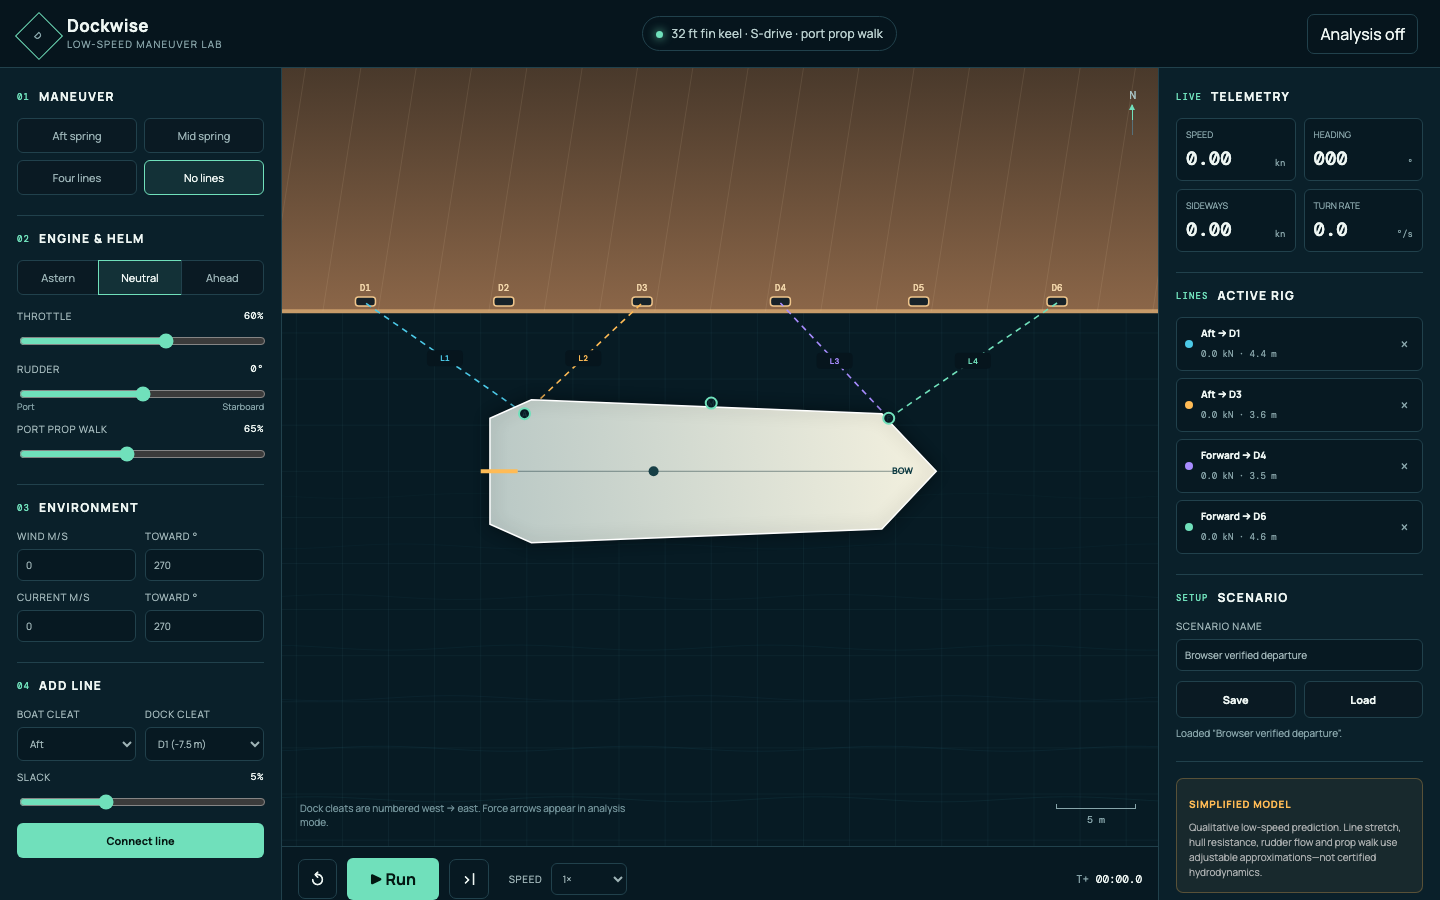
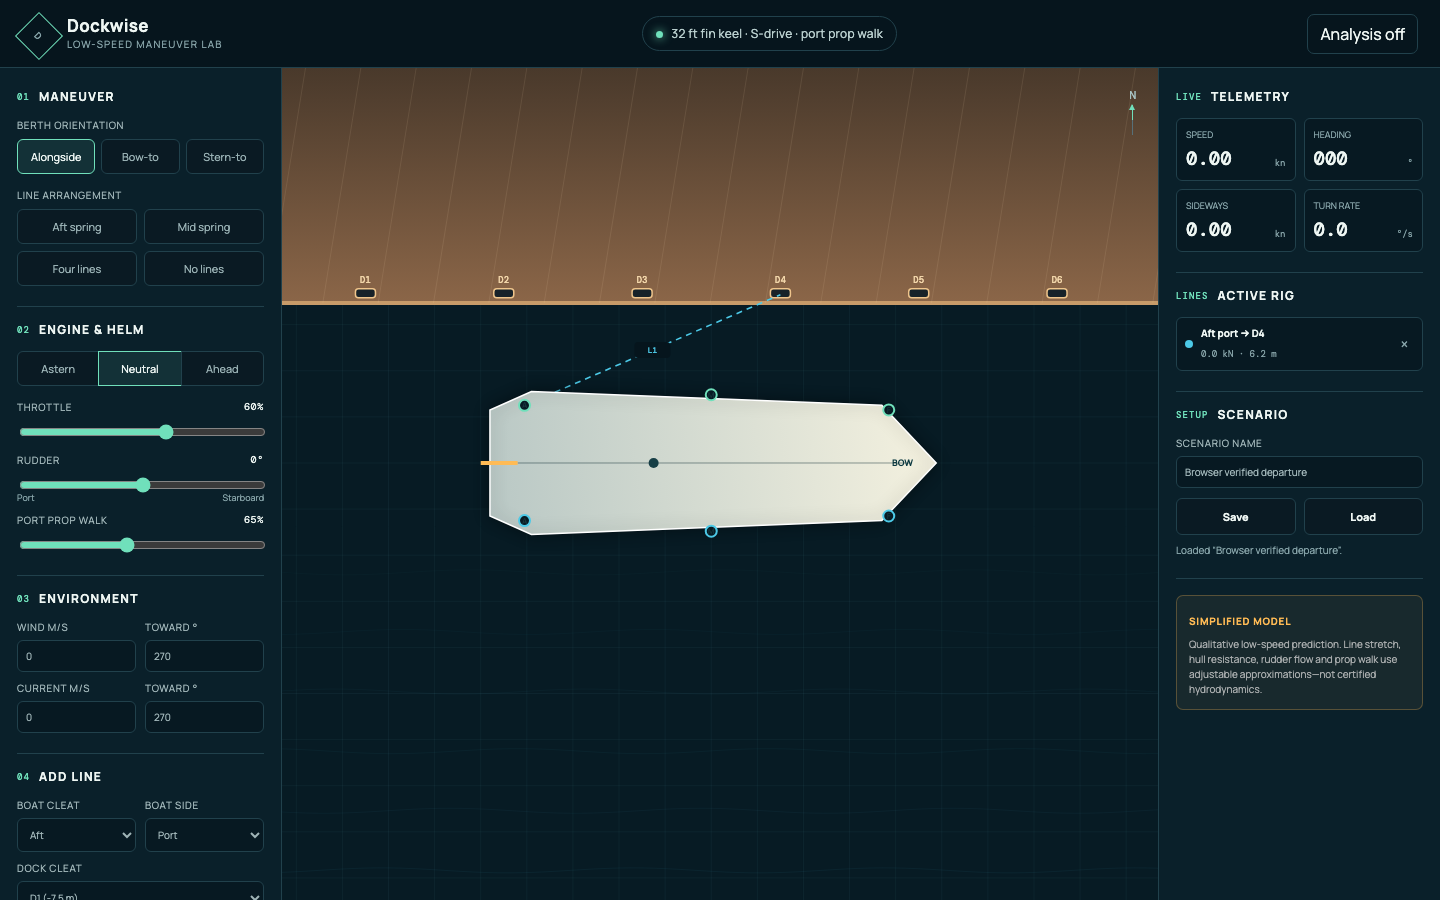
Add bow-to and stern-to docking modes

diff --git a/src/app.js b/src/app.js
@@ -1,6 +1,7 @@
 import {
   BOAT_PRESET,
   createInitialState,
+  createBerthState,
   boatPointToWorld,
   computeForces,
   stepSimulation,
@@ -25,6 +26,7 @@ let state = createInitialState({ x: 0, y: 0, heading: 0 });
 let lines = [];
 let lineCounter = 0;
 let engine = 0;
+let berthMode = 'alongside';
 let running = false;
 let analysis = true;
 let lastFrame = performance.now();
@@ -55,6 +57,7 @@ function currentControls() {
     propWalk: Number(controls.propWalk.value) / 100,
     wind: { speed: Number(controls.windSpeed.value), directionDeg: Number(controls.windDirection.value) },
     current: { speed: Number(controls.currentSpeed.value), directionDeg: Number(controls.currentDirection.value) },
+    berthMode,
     dockBoundaryY: dockY + 0.18,
     lines,
   };
@@ -63,15 +66,19 @@ function currentControls() {
 function distance(a, b) { return Math.hypot(a.x - b.x, a.y - b.y); }
 function dockCleat(id) { return dockCleats.find((cleat) => cleat.id === id); }
 
-function makeLine(boatCleat, dockId, slackPercent = 3) {
+function makeLine(boatCleat, dockId, slackPercent = 3, boatSide = 'port') {
   const dock = dockCleat(dockId);
-  const boatPoint = boatPointToWorld(state, BOAT_PRESET.cleats[boatCleat]);
+  const station = BOAT_PRESET.cleats[boatCleat];
+  const localBoatPoint = { x: station.x, y: boatSide === 'starboard' ? Math.abs(station.y) : -Math.abs(station.y) };
+  const boatPoint = boatPointToWorld(state, localBoatPoint);
   const length = distance(boatPoint, dock);
   lineCounter += 1;
   return {
     id: `L${lineCounter}`,
     active: true,
     boatCleat,
+    boatSide,
+    boatPoint: localBoatPoint,
     dockCleat: dockId,
     dockPoint: { x: dock.x, y: dock.y },
     restLength: length * (1 + slackPercent / 100),
@@ -83,11 +90,29 @@ function makeLine(boatCleat, dockId, slackPercent = 3) {
 }
 
 function resetBoat() {
-  state = createInitialState({ x: 0, y: 0, heading: 0 });
+  state = createBerthState(berthMode, dockY + 0.18, 0.65);
   running = false;
   trail = [];
   accumulator = 0;
   $('#playPause').textContent = '▶ Run';
+  updateOutputs();
+}
+
+function setBerthMode(mode) {
+  berthMode = mode;
+  resetBoat();
+  lineCounter = 0;
+  if (mode === 'bow-to') {
+    lines = [makeLine('forward', 'D4', 4, 'port'), makeLine('forward', 'D3', 4, 'starboard')];
+  } else if (mode === 'stern-to') {
+    lines = [makeLine('aft', 'D4', 4, 'port'), makeLine('aft', 'D3', 4, 'starboard')];
+  } else {
+    lines = [makeLine('aft', 'D4', 2, 'port')];
+  }
+  $$('[data-berth]').forEach((button) => button.classList.toggle('active', button.dataset.berth === mode));
+  $$('.preset').forEach((button) => button.classList.remove('active'));
+  resizeCanvas();
+  renderLineList();
   updateOutputs();
 }
 
@@ -171,7 +196,7 @@ function renderLineList() {
     const text = document.createElement('div');
     const tension = result ? `${(result.tension / 1000).toFixed(1)} kN` : '0.0 kN';
     const title = document.createElement('strong');
-    title.textContent = `${BOAT_PRESET.cleats[line.boatCleat].label} → ${line.dockCleat}`;
+    title.textContent = `${BOAT_PRESET.cleats[line.boatCleat].label} ${line.boatSide || 'port'} → ${line.dockCleat}`;
     const detail = document.createElement('span');
     detail.textContent = `${tension} · ${line.restLength.toFixed(1)} m`;
     text.append(title, detail);
@@ -187,13 +212,20 @@ function resizeCanvas() {
   const dpr = Math.min(window.devicePixelRatio || 1, 2);
   canvas.width = Math.round(rect.width * dpr);
   canvas.height = Math.round(rect.height * dpr);
+  const widthScale = Math.max(27, Math.min(48, rect.width / 19));
+  const scale = berthMode === 'alongside'
+    ? widthScale
+    : Math.max(24, Math.min(38, widthScale, (rect.height - 145) / 11));
+  const dockEdge = berthMode === 'alongside'
+    ? Math.max(175, Math.min(235, rect.height * 0.34))
+    : Math.max(105, Math.min(145, rect.height * 0.25));
   view = {
     width: rect.width,
     height: rect.height,
     dpr,
-    scale: Math.max(27, Math.min(48, rect.width / 19)),
+    scale,
     originX: rect.width * 0.49,
-    originY: Math.max(175, Math.min(235, rect.height * 0.34)) - dockY * Math.max(27, Math.min(48, rect.width / 19)),
+    originY: dockEdge - (dockY + 0.18) * scale,
   };
 }
 
@@ -269,16 +301,18 @@ function drawBoat() {
   const rudderB = transformBoatPoint({ x: -5.0, y: Math.sin(rudderAngle) * 1.0 });
   ctx.strokeStyle = '#ffbb55'; ctx.lineWidth = 4; ctx.beginPath(); ctx.moveTo(rudderA.x, rudderA.y); ctx.lineTo(rudderB.x, rudderB.y); ctx.stroke();
   for (const [name, cleat] of Object.entries(BOAT_PRESET.cleats)) {
-    const point = transformBoatPoint(cleat);
-    ctx.fillStyle = '#071b24'; ctx.strokeStyle = '#70e0bb'; ctx.lineWidth = 2; ctx.beginPath(); ctx.arc(point.x, point.y, 5.5, 0, Math.PI * 2); ctx.fill(); ctx.stroke();
-    ctx.fillStyle = '#15353c'; ctx.font = '600 8px Manrope'; ctx.fillText(name[0].toUpperCase(), point.x, point.y + 3);
+    for (const side of [-1, 1]) {
+      const point = transformBoatPoint({ x: cleat.x, y: Math.abs(cleat.y) * side });
+      ctx.fillStyle = '#071b24'; ctx.strokeStyle = side < 0 ? '#70e0bb' : '#4cc9e7'; ctx.lineWidth = 2; ctx.beginPath(); ctx.arc(point.x, point.y, 5.5, 0, Math.PI * 2); ctx.fill(); ctx.stroke();
+      ctx.fillStyle = '#15353c'; ctx.font = '600 8px Manrope'; ctx.fillText(name[0].toUpperCase(), point.x, point.y + 3);
+    }
   }
 }
 
 function drawLines() {
   const resultMap = new Map((state.lineResults || []).map((result) => [result.id, result]));
   for (const line of lines) {
-    const a = toScreen(boatPointToWorld(state, BOAT_PRESET.cleats[line.boatCleat]));
+    const a = toScreen(boatPointToWorld(state, line.boatPoint || BOAT_PRESET.cleats[line.boatCleat]));
     const b = toScreen(line.dockPoint);
     const result = resultMap.get(line.id);
     ctx.strokeStyle = result?.overloaded ? '#ff6e66' : line.color; ctx.lineWidth = result?.tension > 10 ? 2.5 : 1.6;
@@ -340,11 +374,12 @@ function tick(now) {
 }
 
 $$('[data-engine]').forEach((button) => button.addEventListener('click', () => setEngine(button.dataset.engine)));
+$$('[data-berth]').forEach((button) => button.addEventListener('click', () => setBerthMode(button.dataset.berth)));
 $$('[data-preset]').forEach((button) => button.addEventListener('click', () => applyPreset(button.dataset.preset)));
 Object.values(controls).forEach((element) => element.addEventListener('input', updateRangeOutputs));
 $('#lineSlack').addEventListener('input', updateRangeOutputs);
 $('#addLine').addEventListener('click', () => {
-  lines.push(makeLine($('#boatCleat').value, $('#dockCleat').value, Number($('#lineSlack').value)));
+  lines.push(makeLine($('#boatCleat').value, $('#dockCleat').value, Number($('#lineSlack').value), $('#boatSide').value));
   $$('.preset').forEach((button) => button.classList.remove('active'));
   renderLineList();
 });
@@ -370,9 +405,11 @@ $('#loadScenario').addEventListener('click', () => {
   if (!saved) { $('#saveStatus').textContent = 'No saved scenario yet.'; return; }
   try {
     const scenario = deserializeScenario(saved);
-    state = createInitialState(scenario.state); lines = scenario.lines || [];
-    lineCounter = lines.reduce((max, line) => Math.max(max, Number(line.id?.slice(1)) || 0), 0);
     const c = scenario.controls || {};
+    berthMode = ['alongside', 'bow-to', 'stern-to'].includes(c.berthMode) ? c.berthMode : 'alongside';
+    state = createInitialState(scenario.state); lines = scenario.lines || [];
+    lineCounter = lines.reduce((max, line) => Math.max(max, typeof line.id === 'string' ? Number(line.id.slice(1)) || 0 : 0), 0);
+    $$('[data-berth]').forEach((button) => button.classList.toggle('active', button.dataset.berth === berthMode));
     setEngine(c.engine || 0);
     if (Number.isFinite(c.throttle)) controls.throttle.value = c.throttle * 100;
     if (Number.isFinite(c.rudderDeg)) controls.rudder.value = c.rudderDeg;
@@ -380,7 +417,7 @@ $('#loadScenario').addEventListener('click', () => {
     if (c.wind) { controls.windSpeed.value = c.wind.speed; controls.windDirection.value = c.wind.directionDeg; }
     if (c.current) { controls.currentSpeed.value = c.current.speed; controls.currentDirection.value = c.current.directionDeg; }
     $('#scenarioName').value = scenario.name || 'Loaded departure';
-    running = false; $('#playPause').textContent = '▶ Run'; updateRangeOutputs(); updateOutputs();
+    running = false; $('#playPause').textContent = '▶ Run'; resizeCanvas(); updateRangeOutputs(); updateOutputs();
     $('#saveStatus').textContent = `Loaded “${scenario.name}”.`;
   } catch { $('#saveStatus').textContent = 'Saved scenario is invalid.'; }
 });
@@ -395,7 +432,9 @@ canvas.addEventListener('pointermove', (event) => {
   if (!dragging || running) return;
   const rect = canvas.getBoundingClientRect();
   const world = toWorld({ x: event.clientX - rect.left, y: event.clientY - rect.top });
-  state = createInitialState({ x: world.x, y: Math.max(dockY + BOAT_PRESET.beam * 0.5 + 0.2, world.y), heading: state.heading });
+  const hullExtent = Math.abs(Math.sin(state.heading)) * BOAT_PRESET.length * 0.5
+    + Math.abs(Math.cos(state.heading)) * BOAT_PRESET.beam * 0.5;
+  state = createInitialState({ x: world.x, y: Math.max(dockY + 0.18 + hullExtent + 0.2, world.y), heading: state.heading });
   trail = []; updateOutputs();
 });
 canvas.addEventListener('pointerup', () => { dragging = false; });
@@ -404,6 +443,8 @@ window.addEventListener('resize', resizeCanvas);
 window.__dockwise = {
   getState: () => clone(state),
   getLines: () => clone(lines),
+  getBerthMode: () => berthMode,
+  setBerthMode,
   setEngine,
   applyPreset,
   step: (seconds = 0.05) => { state = stepSimulation(state, currentControls(), seconds); updateOutputs(); return clone(state); },

diff --git a/tests/physics.test.js b/tests/physics.test.js
@@ -3,6 +3,7 @@ import assert from 'node:assert/strict';
 import {
   BOAT_PRESET,
   createInitialState,
+  createBerthState,
   boatPointToWorld,
   computeLineForce,
   computeForces,
@@ -18,6 +19,25 @@ test('32 ft preset has aft, middle, and forward cleats', () => {
   assert.equal(BOAT_PRESET.lengthFt, 32);
   assert.deepEqual(Object.keys(BOAT_PRESET.cleats), ['aft', 'middle', 'forward']);
   assert.equal(BOAT_PRESET.propWalkDirection, 'port');
+});
+
+test('berth states orient the boat alongside, bow-to, and stern-to', () => {
+  const alongside = createBerthState('alongside');
+  const bowTo = createBerthState('bow-to');
+  const sternTo = createBerthState('stern-to');
+  near(alongside.heading, 0);
+  near(bowTo.heading, -Math.PI / 2);
+  near(sternTo.heading, Math.PI / 2);
+});
+
+test('end-on berth states start clear of the dock boundary', () => {
+  const boundary = -3.47;
+  for (const mode of ['bow-to', 'stern-to']) {
+    const state = createBerthState(mode, boundary, 0.65);
+    const hullExtent = Math.abs(Math.sin(state.heading)) * BOAT_PRESET.length * 0.5
+      + Math.abs(Math.cos(state.heading)) * BOAT_PRESET.beam * 0.5;
+    near(state.y - hullExtent, boundary + 0.65);
+  }
 });
 
 test('boat attachment point rotates into world coordinates', () => {
@@ -60,6 +80,18 @@ test('a forward spring line attached aft creates a predictable yaw moment', () =
   const forces = computeForces(state, { lines: [line], engine: 0, throttle: 0, rudderDeg: 0, wind: { speed: 0, directionDeg: 0 }, current: { speed: 0, directionDeg: 0 } });
   assert.ok(forces.torque > 0, `expected positive yaw torque, got ${forces.torque}`);
   assert.ok(forces.lines[0].tension > 0);
+});
+
+test('mirrored end-on lines use their explicit boat-side attachment points', () => {
+  const state = createBerthState('bow-to');
+  const forward = BOAT_PRESET.cleats.forward;
+  const lines = [
+    { id: 'port', active: true, boatCleat: 'forward', boatPoint: { x: forward.x, y: -Math.abs(forward.y) }, dockPoint: { x: 1.5, y: -3.65 }, restLength: 0, stiffness: 10, damping: 0, maxLoad: 1000 },
+    { id: 'starboard', active: true, boatCleat: 'forward', boatPoint: { x: forward.x, y: Math.abs(forward.y) }, dockPoint: { x: -1.5, y: -3.65 }, restLength: 0, stiffness: 10, damping: 0, maxLoad: 1000 },
+  ];
+  const forces = computeForces(state, { lines, engine: 0, throttle: 0, rudderDeg: 0, wind: { speed: 0, directionDeg: 0 }, current: { speed: 0, directionDeg: 0 } });
+  near(forces.torque, 0, 1e-6);
+  near(forces.lines[0].tension, forces.lines[1].tension, 1e-6);
 });
 
 test('reverse thrust adds port-side prop walk', () => {

diff --git a/src/physics.js b/src/physics.js
@@ -33,6 +33,17 @@ export function createInitialState(overrides = {}) {
   };
 }
 
+export function createBerthState(mode = 'alongside', dockBoundaryY = -3.47, gap = 0.65) {
+  const headings = { alongside: 0, 'bow-to': -Math.PI / 2, 'stern-to': Math.PI / 2 };
+  if (!Object.hasOwn(headings, mode)) throw new Error(`Unsupported berth mode: ${mode}`);
+  const heading = headings[mode];
+  if (mode === 'alongside') return createInitialState({ heading });
+  const halfLength = BOAT_PRESET.length * 0.5;
+  const halfBeam = BOAT_PRESET.beam * 0.5;
+  const hullExtent = Math.abs(Math.sin(heading)) * halfLength + Math.abs(Math.cos(heading)) * halfBeam;
+  return createInitialState({ y: dockBoundaryY + hullExtent + Math.max(0.1, Number(gap) || 0.65), heading });
+}
+
 export function rotate(point, angle) {
   const c = Math.cos(angle);
   const s = Math.sin(angle);
@@ -162,7 +173,7 @@ export function computeForces(state, controls = {}) {
 
   for (const line of controls.lines || []) {
     if (!line.active) continue;
-    const localPoint = BOAT_PRESET.cleats[line.boatCleat];
+    const localPoint = line.boatPoint || BOAT_PRESET.cleats[line.boatCleat];
     if (!localPoint || !line.dockPoint) continue;
     const boatPoint = boatPointToWorld(state, localPoint);
     const worldOffset = subtract(boatPoint, { x: state.x, y: state.y });
@@ -259,8 +270,10 @@ export function deserializeScenario(serialized) {
         const validBoatCleat = line && Object.hasOwn(BOAT_PRESET.cleats, line.boatCleat);
         const validDockCleat = typeof line?.dockCleat === 'string' && /^D[1-6]$/.test(line.dockCleat);
         const validDockPoint = line?.dockPoint && Number.isFinite(line.dockPoint.x) && Number.isFinite(line.dockPoint.y);
+        const validBoatPoint = line?.boatPoint === undefined
+          || (Number.isFinite(line.boatPoint?.x) && Number.isFinite(line.boatPoint?.y));
         const validLength = Number.isFinite(line?.restLength) && line.restLength >= 0;
-        if (!validBoatCleat || !validDockCleat || !validDockPoint || !validLength) throw new Error('Invalid scenario');
+        if (!validBoatCleat || !validDockCleat || !validDockPoint || !validBoatPoint || !validLength) throw new Error('Invalid scenario');
       }
     }
     return parsed;

diff --git a/styles.css b/styles.css
@@ -27,9 +27,12 @@ button { cursor:pointer; }
 .section-heading { display:flex; align-items:center; gap:9px; margin-bottom:13px; }
 .section-heading > span { color:var(--mint); font:500 9px 'DM Mono'; text-transform:uppercase; letter-spacing:.12em; }
 h2 { font-size:12px; margin:0; text-transform:uppercase; letter-spacing:.11em; }
+.control-caption { margin-bottom:7px; }
+.preset-caption { margin-top:14px; }
+.berth-grid { display:grid; grid-template-columns:repeat(3,1fr); gap:6px; }
 .preset-grid { display:grid; grid-template-columns:1fr 1fr; gap:7px; }
-.preset, .segmented button { border:1px solid var(--line); background:#0a1a23; color:#9ab2b5; padding:9px 6px; border-radius:6px; font-size:11px; }
-.preset:hover, .preset.active, .segmented button.active { color:var(--text); border-color:var(--mint); background:rgba(112,224,187,.09); }
+.preset, .berth-button, .segmented button { border:1px solid var(--line); background:#0a1a23; color:#9ab2b5; padding:9px 6px; border-radius:6px; font-size:11px; }
+.preset:hover, .preset.active, .berth-button:hover, .berth-button.active, .segmented button.active { color:var(--text); border-color:var(--mint); background:rgba(112,224,187,.09); }
 .segmented { display:grid; grid-template-columns:1fr 1fr 1fr; margin-bottom:14px; }
 .segmented button { border-radius:0; margin-left:-1px; }
 .segmented button:first-child { border-radius:6px 0 0 6px; margin-left:0; }
@@ -44,6 +47,7 @@ input[type=range] { width:100%; accent-color:var(--mint); }
 .direction-labels { display:flex; justify-content:space-between; color:var(--muted); font-size:9px; margin-top:-4px; }
 .compact { margin-top:9px; }
 .two-col { display:grid; grid-template-columns:1fr 1fr; gap:9px; }
+.dock-cleat-row { margin-top:9px; }
 .primary-button, .secondary-button { border-radius:6px; padding:10px 12px; font-weight:700; font-size:11px; }
 .primary-button { width:100%; margin-top:11px; color:#041510; background:var(--mint); border:0; }
 .primary-button:hover { background:#8cedca; }

diff --git a/index.html b/index.html
@@ -21,6 +21,13 @@
     <aside class="panel controls-panel" aria-label="Simulation controls">
       <section>
         <div class="section-heading"><span>01</span><h2>Maneuver</h2></div>
+        <label class="control-caption">Berth orientation</label>
+        <div class="berth-grid" role="group" aria-label="Berth orientation">
+          <button type="button" class="berth-button active" data-berth="alongside">Alongside</button>
+          <button type="button" class="berth-button" data-berth="bow-to">Bow-to</button>
+          <button type="button" class="berth-button" data-berth="stern-to">Stern-to</button>
+        </div>
+        <label class="control-caption preset-caption">Line arrangement</label>
         <div class="preset-grid">
           <button type="button" class="preset active" data-preset="aft-spring">Aft spring</button>
           <button type="button" class="preset" data-preset="mid-spring">Mid spring</button>
@@ -56,8 +63,9 @@
         <div class="section-heading"><span>04</span><h2>Add line</h2></div>
         <div class="two-col">
           <label>Boat cleat<select id="boatCleat"><option value="aft">Aft</option><option value="middle">Middle</option><option value="forward">Forward</option></select></label>
-          <label>Dock cleat<select id="dockCleat"></select></label>
+          <label>Boat side<select id="boatSide"><option value="port">Port</option><option value="starboard">Starboard</option></select></label>
         </div>
+        <label class="dock-cleat-row">Dock cleat<select id="dockCleat"></select></label>
         <label class="range-row compact" for="lineSlack"><span>Slack <output id="lineSlackValue">5%</output></span><input id="lineSlack" type="range" min="-8" max="30" value="5"></label>
         <button id="addLine" class="primary-button" type="button">Connect line</button>
       </section>

diff --git a/README.md b/README.md
@@ -17,11 +17,12 @@ Open [http://127.0.0.1:4173](http://127.0.0.1:4173).
 
 ## Use
 
-1. Select a preset or connect your own lines between the aft, middle, or forward boat cleat and dock cleats D1–D6.
-2. Select **Astern**, **Neutral**, or **Ahead**, then set throttle and rudder.
-3. Optionally set wind/current speed and the direction each vector moves **toward**.
-4. Press **Run**, **Pause**, **Step**, or **Reset** and watch the boat, force vectors, line tensions, telemetry, and warnings.
-5. Release a line with its × button or save/load the full scenario locally.
+1. Choose **Alongside**, **Bow-to**, or **Stern-to**. End-on modes start perpendicular to the quay with mirrored port/starboard line pairs.
+2. Select a line preset or connect your own lines between the aft, middle, or forward boat cleat, its port/starboard side, and dock cleats D1–D6.
+3. Select **Astern**, **Neutral**, or **Ahead**, then set throttle and rudder.
+4. Optionally set wind/current speed and the direction each vector moves **toward**.
+5. Press **Run**, **Pause**, **Step**, or **Reset** and watch the boat, force vectors, line tensions, telemetry, and warnings.
+6. Release a line with its × button or save/load the full scenario locally.
 
 The boat can also be dragged to a new starting position while paused.
 

diff --git a/docs/plans/end-on-berths.md b/docs/plans/end-on-berths.md
@@ -1,0 +1,14 @@
+# Bow-to and Stern-to Berths Implementation Plan
+
+**Goal:** Extend Dockwise so the boat can begin and maneuver alongside, bow-to, or stern-to against the quay.
+
+**Architecture:** Keep the horizontal quay and tested half-plane collision model. Add a pure berth-state factory that sets safe perpendicular initial poses. The UI selects the berth orientation and generates appropriate end-on paired lines using the existing aft/forward attachment stations and dock cleats.
+
+## Tasks
+
+1. Add failing tests for alongside, bow-to, and stern-to initial headings and safe dock clearance.
+2. Implement `createBerthState(mode, dockBoundaryY, gap)` in the physics module.
+3. Add orientation buttons and mode-aware reset behavior to the UI.
+4. Add paired bow/stern line presets when changing end-on orientation.
+5. Extend the Chrome test to operate both new modes and confirm collision-free starting poses.
+6. Run physics, syntax, local-browser, public-browser, and Pages deployment checks.

diff --git a/docs/acceptance.md b/docs/acceptance.md
@@ -8,12 +8,15 @@
 
 Command: `npm test`
 
-Result: **PASS — 13/13 tests**
+Result: **PASS — 16/16 tests**
 
 Covered behavior:
 
 - 32 ft fin-keel S-drive preset
 - aft/middle/forward cleat geometry
+- alongside, bow-to, and stern-to initial orientation
+- safe end-on clearance from the quay
+- mirrored port/starboard end-on attachment forces
 - slack and taut line forces
 - line overload detection
 - spring-line yaw moment
